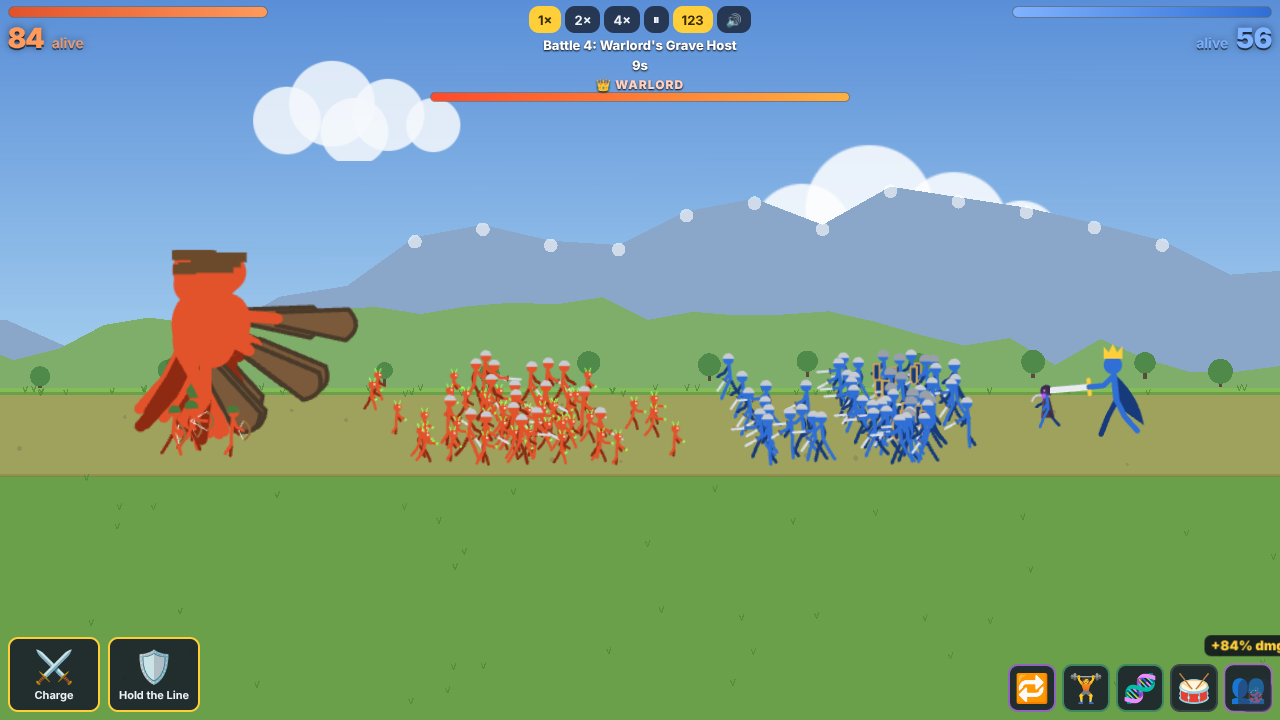
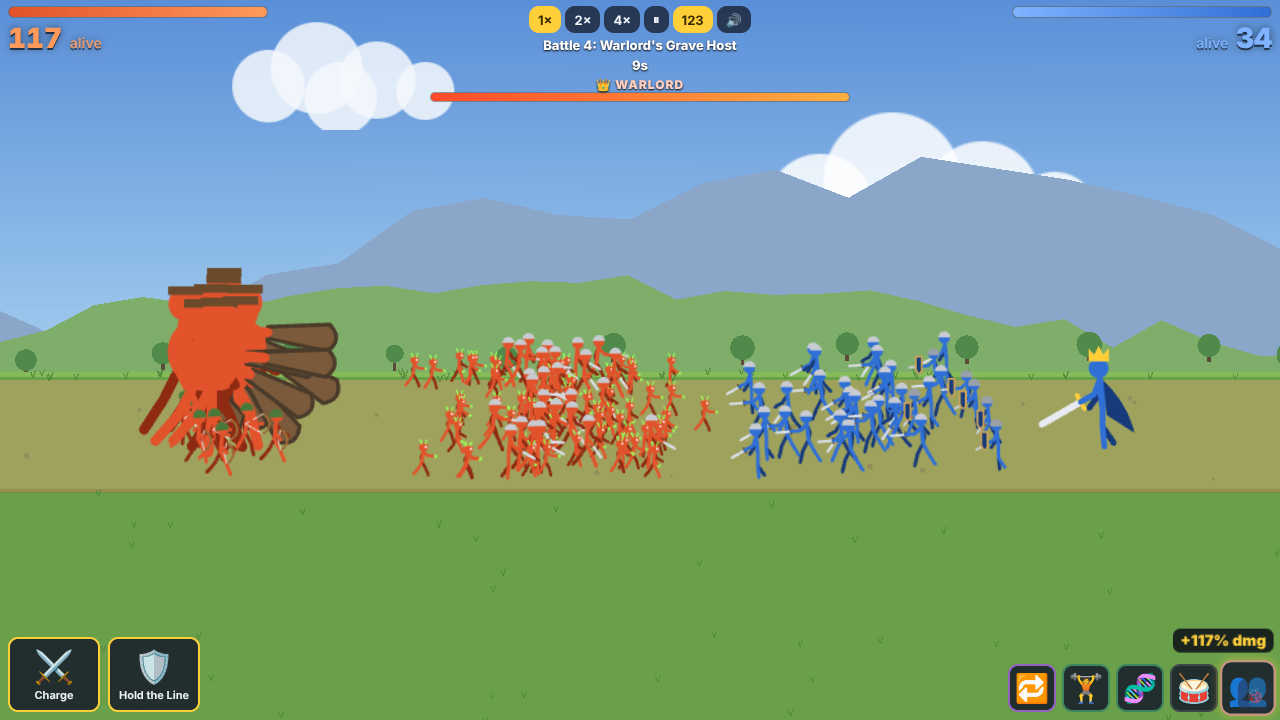
Perf benchmarks, docs (README, DEMO_GUIDE, DECISIONS), Pages workflow, boss hit-stop, camera/label/spawn polish
Claude-Session: https://claude.ai/code/session_01Gsp3VsnHyGdLX5UKaVADmR

diff --git a/src/main.ts b/src/main.ts
@@ -6,7 +6,8 @@ import { sfx } from './audio/sfx';
 import { setAtlas, h, hideTip } from './ui/dom';
 import { renderShop } from './ui/shop';
 import { Hud } from './ui/hud';
-import { renderDebug, renderReward, renderSummary, renderTitle, preset } from './ui/screens';
+import { renderDebug, renderReward, renderSummary, renderTitle } from './ui/screens';
+import { preset } from './game/presets';
 import { newRun, battleSetup, finishBattle, jumpToBattle, isBossBattle, addUnit, grantRelic, type RunState } from './game/run';
 import { UNITS } from './config/units';
 import type { BattleResult } from './sim/types';
@@ -21,7 +22,8 @@ async function boot() {
     resizeTo: window,
     antialias: false,
     backgroundColor: 0x161c2b,
-    resolution: Math.min(window.devicePixelRatio || 1, 2),
+    // phones: cap at 1.5x to save fill-rate (stickmen are drawn from a 2x atlas anyway)
+    resolution: Math.min(window.devicePixelRatio || 1, matchMedia('(pointer: coarse)').matches ? 1.5 : 2),
     autoDensity: true,
     powerPreference: 'high-performance',
     preference: 'webgl',
@@ -74,7 +76,21 @@ async function boot() {
     go('battle');
     ui.innerHTML = '';
     demo = null;
-    battle = new Battle(battleSetup(run));
+    const setup = battleSetup(run);
+    if (params.get('mirror')) {
+      // benchmark helper: the enemy gets a copy of your army (huge symmetric clash)
+      setup.enemy.slots = setup.player.slots.map((x) => ({ ...x }));
+      setup.enemy.mods = setup.player.mods;
+      setup.enemy.minion = setup.player.minion;
+      setup.enemy.statueHp = 5000;
+    }
+    battle = new Battle(setup);
+    if (params.get('prewarm')) {
+      // benchmark helper: fast-forward headlessly to the moment the armies clash
+      battle.emitEvents = false;
+      while (battle.tick < 1500 && (battle.deploying || battle.front[1] - battle.front[0] > 30)) battle.step();
+      battle.emitEvents = true;
+    }
     view.start(battle);
     view.paused = false;
     view.speed = speed;
@@ -205,6 +221,8 @@ async function boot() {
     if (params.get('preset')) preset(run, params.get('preset') as never);
     if (params.get('relics')) for (const r of params.get('relics')!.split(',')) grantRelic(run, r as never);
     if (params.get('battle')) jumpToBattle(run, Number(params.get('battle')));
+    // e.g. extra=swarmling:9,swordsman:9 (adds unit copies; used by the perf benchmark)
+    if (params.get('extra')) for (const kv of params.get('extra')!.split(',')) addUnit(run, kv.split(':')[0] as never, Number(kv.split(':')[1] ?? 1));
     if (params.get('gold')) run.gold = Number(params.get('gold'));
     if (params.get('speed')) speed = Number(params.get('speed'));
     if (params.get('numbers') === '0') view.showNumbers = false;

diff --git a/scripts/bench-sim.ts b/scripts/bench-sim.ts
@@ -1,0 +1,32 @@
+// CPU cost of the battle simulation at large scale (node, no rendering).
+// npx tsx scripts/bench-sim.ts
+import { newRun, battleSetup, addUnit, jumpToBattle } from '../src/game/run';
+import { preset } from '../src/game/presets';
+import { Battle } from '../src/sim/battle';
+
+const run = newRun(7);
+preset(run, 'swarm');
+addUnit(run, 'swarmling', 6);
+addUnit(run, 'swordsman', 6);
+jumpToBattle(run, 8);
+const setup = battleSetup(run);
+setup.enemy.slots = setup.player.slots.map((x) => ({ ...x }));
+setup.enemy.mods = setup.player.mods;
+setup.enemy.minion = setup.player.minion;
+setup.enemy.statueHp = 5000;
+const b = new Battle(setup);
+b.emitEvents = true; // include event generation cost, like the real game
+const samples: { alive: number; ms: number }[] = [];
+while (!b.finished && b.tick < 2700) {
+  const t = performance.now();
+  b.step();
+  const ms = performance.now() - t;
+  b.events.length = 0;
+  samples.push({ alive: b.aliveCount[0] + b.aliveCount[1], ms });
+}
+const big = samples.filter((s) => s.alive >= 1500);
+const avg = (xs: number[]) => xs.reduce((a, c) => a + c, 0) / Math.max(1, xs.length);
+const sorted = big.map((s) => s.ms).sort((a, c) => a - c);
+console.log(`ticks with >=1500 alive: ${big.length}, peak alive ${Math.max(...samples.map((s) => s.alive))}`);
+console.log(`sim step ms at >=1500 alive: avg ${avg(sorted).toFixed(3)}  p95 ${sorted[Math.floor(sorted.length * 0.95)]?.toFixed(3)}  max ${sorted[sorted.length - 1]?.toFixed(3)}`);
+console.log(`=> at 1x speed (30 ticks/s, ~0.5 tick per 60fps frame) the sim uses ~${(avg(sorted) * 0.5).toFixed(2)} ms per frame; at 4x ~${(avg(sorted) * 2).toFixed(2)} ms`);

diff --git a/src/ui/screens.ts b/src/ui/screens.ts
@@ -2,6 +2,7 @@ import { UNITS, BUYABLE_UNITS } from '../config/units';
 import { RELICS, RELIC_MAP } from '../config/relics';
 import type { RunState, RewardBreakdown } from '../game/run';
 import { TOTAL_BATTLES, addUnit, bestCombo, grantRelic, jumpToBattle, playerSide } from '../game/run';
+import { preset } from '../game/presets';
 import type { BattleResult } from '../sim/types';
 import { fmt, h, unitThumb } from './dom';
 
@@ -133,14 +134,3 @@ export function renderDebug(root: HTMLElement, run: RunState, hooks: DebugHooks)
   return box;
 }
 
-export function preset(run: RunState, kind: 'swarm' | 'necro' | 'archer' | 'giant') {
-  const P = {
-    swarm: { army: [['swarmling', 9], ['shieldbearer', 3], ['monk', 3], ['archer', 3]], relics: ['vanguard_banner', 'brood_mother', 'mitosis', 'strength_in_numbers', 'chain_reaction'] },
-    necro: { army: [['shieldbearer', 3], ['swordsman', 3], ['necromancer', 9], ['monk', 3]], relics: ['soul_harvest', 'gravedigger', 'grave_pact', 'war_drums', 'lich_crown'] },
-    archer: { army: [['shieldbearer', 9], ['spearman', 3], ['archer', 9], ['monk', 3]], relics: ['echo_stone', 'shield_quiver', 'eagle_eye', 'hail_of_arrows', 'thick_skin'] },
-    giant: { army: [['swordsman', 3], ['giant', 9], ['swarmling', 3], ['archer', 3]], relics: ['echo_stone', 'catapult_arms', 'titan_blood', 'war_drums', 'strength_in_numbers'] },
-  }[kind];
-  run.army = P.army.map(([t, c]) => ({ type: t as never, copies: c as number }));
-  run.relics = [];
-  for (const r of P.relics) grantRelic(run, r as never);
-}

diff --git a/src/sim/battle.ts b/src/sim/battle.ts
@@ -23,7 +23,7 @@ export const EV = {
   Land: 12, // x y dmg
   Command: 13, // cmdIndex
   StatueFall: 14, // side
-  Swing: 15, // x y size side (heavy swing)
+  Swing: 15, // x y size side boss (heavy swing)
 } as const;
 export const EV_STRIDE = 7;
 
@@ -277,8 +277,10 @@ export class Battle {
         const head = q[0];
         const st = side.slots[head.slot];
         const big = TYPE_BIG[UNIT_INDEX[st.type]];
-        const y = big ? WORLD.laneDepth * this.rng.range(0.4, 0.75) : this.rng.range(4, WORLD.laneDepth - 4);
-        this.spawn(s, st, head.slot, sx + this.rng.range(-8, 8), y);
+        const y = big ? WORLD.laneDepth * this.rng.range(0.2, 0.85) : this.rng.range(4, WORLD.laneDepth - 4);
+        // big units spawn staggered so a group of giants doesn't stack into one blob
+        const jx = big ? this.rng.range(-30, 10) * (s === 0 ? 1 : -1) : this.rng.range(-8, 8);
+        this.spawn(s, st, head.slot, sx + jx, y);
         if (--head.left <= 0) q.shift();
       }
     }
@@ -920,7 +922,7 @@ export class Battle {
             this.anim[i] = beh >= 5 ? 0.45 : 0.25;
             const amt = this.dmg[i] * this.unitMult(i, t);
             if (beh >= 5) {
-              this.ev(EV.Swing, x + dir * r * 0.6, this.y[i], this.size[i], s);
+              this.ev(EV.Swing, x + dir * r * 0.6, this.y[i], this.size[i], s, this.flags[i] & F_BOSS ? 1 : 0);
               this.bigSwing(i, s, amt);
             } else {
               this.damage(t, amt, i, dir * this.rng.range(20, 50), this.rng.range(40, 90));

diff --git a/src/game/presets.ts b/src/game/presets.ts
@@ -1,0 +1,16 @@
+// Ready-made builds used by the debug menu, the title-screen demo and benchmarks.
+import { grantRelic, type RunState } from './run';
+
+export type PresetName = 'swarm' | 'necro' | 'archer' | 'giant';
+
+export function preset(run: RunState, kind: PresetName) {
+  const P = {
+    swarm: { army: [['swarmling', 9], ['shieldbearer', 3], ['monk', 3], ['archer', 3]], relics: ['vanguard_banner', 'brood_mother', 'mitosis', 'strength_in_numbers', 'chain_reaction'] },
+    necro: { army: [['shieldbearer', 3], ['swordsman', 3], ['necromancer', 9], ['monk', 3]], relics: ['soul_harvest', 'gravedigger', 'grave_pact', 'war_drums', 'lich_crown'] },
+    archer: { army: [['shieldbearer', 9], ['spearman', 3], ['archer', 9], ['monk', 3]], relics: ['echo_stone', 'shield_quiver', 'eagle_eye', 'hail_of_arrows', 'thick_skin'] },
+    giant: { army: [['swordsman', 3], ['giant', 9], ['swarmling', 3], ['archer', 3]], relics: ['echo_stone', 'catapult_arms', 'titan_blood', 'war_drums', 'strength_in_numbers'] },
+  }[kind];
+  run.army = P.army.map(([t, c]) => ({ type: t as never, copies: c as number }));
+  run.relics = [];
+  for (const r of P.relics) grantRelic(run, r as never);
+}

diff --git a/src/render/battleView.ts b/src/render/battleView.ts
@@ -581,10 +581,11 @@ export class BattleView {
         }
         case EV.Swing: {
           const sz = e[k + 3];
-          if (sz > 2.6) {
+          if (e[k + 5] === 1) {
+            // boss hit: heavy shake + brief hit-stop
             this.shake = Math.max(this.shake, JUICE.shakeHeavy);
-            this.hitStop = Math.max(this.hitStop, JUICE.hitStopBoss * 0.6);
-          } else this.shake = Math.max(this.shake, JUICE.shakeHeavy * 0.4);
+            this.hitStop = Math.max(this.hitStop, JUICE.hitStopBoss * 0.7);
+          } else this.shake = Math.max(this.shake, JUICE.shakeHeavy * (sz > 2.6 ? 0.7 : 0.4));
           this.fxN.add(fx.dust, x, y, 0, -10, 0, 0.5, 0.6, 1.6 * sz * 0.5, 0xd8c8a0, 0.7);
           sfx.play('thud', 0.7);
           break;

diff --git a/src/config/units.ts b/src/config/units.ts
@@ -149,7 +149,7 @@ export const UNITS: Record<UnitId, UnitDef> = {
   golem: def({
     id: 'golem', name: 'Siege Golem', tags: ['Boss', 'Brute'], role: 'BOSS. Slams the front line every 6s, crushing and flinging everything nearby.',
     behavior: 'golem', weapon: 'golem', accent: '#9aa0a8', buyable: false,
-    cost: 0, count: 1, hp: 1800, dmg: 34, cooldown: 2.0, reach: 44, speed: 14, armor: 0.4, size: 3.3, aoe: 50, knock: 1.0, big: true,
+    cost: 0, count: 1, hp: 1500, dmg: 34, cooldown: 2.0, reach: 44, speed: 14, armor: 0.4, size: 3.3, aoe: 50, knock: 1.0, big: true,
   }),
 };
 

diff --git a/src/ui/style.css b/src/ui/style.css
@@ -682,6 +682,9 @@ button.gold {
 .relicic.uncommon {
   border-color: rgba(90, 208, 138, 0.55);
 }
+.relicic:nth-child(even) .rlabel {
+  bottom: 150%;
+}
 .relicic.pulse {
   animation: pulse 0.35s ease-out;
 }

diff --git a/src/config/tuning.ts b/src/config/tuning.ts
@@ -88,6 +88,6 @@ export const JUICE = {
   maxDamageNumbers: 50,
   damageNumberMinGap: 0.03,
   relicLabelWindow: 0.7,
-  cameraMinView: 640,
+  cameraMinView: 1000,
   cameraLerp: 2.2,
 };

diff --git a/DECISIONS.md b/DECISIONS.md
@@ -22,3 +22,35 @@ tests/       vitest suites
 ## Design decisions
 
 (The list grows as I build. Each entry says what was ambiguous and what I picked.)
+
+### Game rules
+
+- **Losing any battle ends the run**, as the brief says. To keep that fair, each normal battle is tuned to about 90–97% for a sensible build. The two bosses are the real danger. Numbers are in BALANCE.md.
+- **Runs start with 10 gold and 1 Swordsman copy (9 stickmen)**, so battle 1 is never an empty field.
+- **Unit copies:** each purchase adds one *copy*. Count = base count × copies × relic multipliers. Level 2 comes at 3 copies and level 3 at 9 copies (×1.6 HP/damage per level, slightly bigger body). Cards show pips toward the next level. Buying a type you already own never needs a free slot.
+- **5 slots at start, up to 7.** Each extra slot costs 8, then 12 gold in the shop, or comes from the **Barracks** relic. Brief: "relics or the shop". I did both.
+- **Selling** gives back half of everything spent on that slot or relic, rounded down, minimum 1. You can't sell your last unit.
+- **Reward:** 7 + battle number, +2 for a win under 30s, +2 if your statue is untouched, Bounty Board gold, plus interest of +1 per 5 gold held (cap 5; Piggy Bank raises it). Reroll costs 1, +1 per reroll in the same shop.
+- **Commands:** pick 2 before each battle in the shop (3 with Commander's Horn) from those you've unlocked. Base pool: Charge, Hold the Line, Volley, Rally. Mitosis unlocks Swarm Burst, Sky Hammer unlocks Meteor, Lich Crown unlocks Raise Dead. A newly unlocked command is equipped automatically, so players notice it.
+- **Enemy armies** are bought from a gold budget (`ENEMY.budget` in tuning.ts) using a themed weight table (Blade Horde, Shield Wall, Swarm Nest, Arcane Circle, Grave Host, Giant Clan, War Band). They level up like yours and get a small stat multiplier per battle. Battles 1–2 only use simple themes, and enemy Giants are capped early.
+- **Bosses:** the *Warlord* (battle 4) stays in the back line. While he's alive all enemies deal +20% damage, and every 10s his War Cry gives ×1.5 for 3s (golden ring, horn, banner). The *Siege Golem* (battle 8) walks in front and slams every 6s: area damage and everyone nearby is flung (screen shake + hit-stop). Spearmen do ×2.5 damage to both.
+- **Fallback winner:** if a battle reaches 90 s, the side with more (statue HP fraction + half of remaining army HP fraction) wins. Stress tests hit this in about 4% of random-army battles and rarely in real runs.
+
+### Relic interpretations
+
+- **"Every 3rd battle, permanently copy your rightmost relic's effect onto a random unit slot"** was hard to read and invisible in play. I replaced it with **Echo Stone: the relic directly to its right triggers twice**. It keeps the brief's "order matters, left to right" idea, chains (two Echo Stones = ×3), and is easy to see. Every relic is written as `apply(mods, power)`, so "triggers twice" really means power 2 for any relic.
+- **Shield Quiver** counts Shield *stickmen*: +1 arrow per 4, capped at +10 per volley. Counting per stickman instead of per slot makes it scale with army size without spawning a million projectiles.
+- **Strength in Numbers** is capped at +500% so the late game stays readable. The cap is still huge.
+- **Mitosis children shrink** (×0.6 HP and ×0.75 damage per generation) so it's a snowball and not an instant win. Sim data drove that change.
+- **Minions leave corpses** that can be raised again. That's what makes the necromancer army grow over a battle, and it matches "raises fallen stickmen (either side)".
+
+### Tech
+
+- **The renderer** draws every stickman and ragdoll as a Pixi `Particle` in a `ParticleContainer`. Frames come from one runtime-generated atlas (13 unit types × 2 sides × 12 poses: 6 walk, 4 attack, hurt, fly), each drawn by a small procedural rig (`render/atlas.ts`). Back rows are drawn first using a counting sort by depth, which is O(n) per frame.
+- **The sim** stores units in typed arrays and uses 16-unit spatial bins along the lane. Targeting, area damage and healing only scan nearby bins. Units queue behind allies when a bin is crowded, which forms readable blobs and keeps "front units engage first" true.
+- **Juice lives in the view**, driven by a flat event buffer from the sim: sparks, ragdolls that tumble, bounce and fade, shake, hit-stop, slow-mo on statue fall, damage numbers (BitmapText, rate-limited), relic pulses.
+- **Audio** is all synthesized, with per-sound voice caps per 50 ms and random pitch, so big fights sound like a crowd.
+- **Phone:** the battle HUD scales and the camera follows the front line in portrait. Landscape is recommended (an on-screen hint says so). Render resolution is capped at 1.5× on touch devices.
+- **Saved data:** only settings (mute, speed, damage numbers) in localStorage.
+- **Deployment:** a GitHub Actions workflow builds, type-checks and tests, then deploys `dist/` to Pages on pushes to `main` and to the working branch. Vite uses `base: './'`, so the build works under `/army/`.
+- **Playwright** isn't a project dependency. The screenshot and perf scripts use a globally installed Playwright, which keeps `npm install` small for players.

diff --git a/DEMO_GUIDE.md b/DEMO_GUIDE.md
@@ -1,0 +1,59 @@
+# Stickstorm demo guide (for Yousuf)
+
+Play link (after the one-time Pages setup in the README): **https://yousufkamran222-code.github.io/army/**
+It works on a laptop and on a phone. On a phone, hold it **sideways** for battles. The shop works either way.
+
+## 1. How to play (under 10 lines)
+
+1. **Shop:** spend gold on **units** (more stickmen; 3 copies = Lv 2, 9 copies = Lv 3) and **relics** (passive combo effects). Tap or hover anything to see what it does.
+2. **Drag army cards to reorder them.** Slot #1 deploys first and fights at the front. Drag relics too: **Echo Stone** doubles the relic to its right.
+3. Check the **"You vs Them" bar** and the enemy preview, then press **Fight**.
+4. The battle plays itself. You get **2 commands** (buttons at the bottom, or keys 1–4). Timing them is your job: Charge as the lines meet, Rally after a bad trade.
+5. Watch the **relic icons pulse** with labels like "Split ×24" when your combo fires. 1×/2×/4× and ⏸ are at the top.
+6. Win gold (fast or flawless wins pay extra, and you get +1 interest per 5 gold you hold). Lose once and the run is over.
+7. Beat the **Warlord** (battle 4) and the **Siege Golem** (battle 8) to win the run.
+
+## 2. Three builds to try
+
+Look for these pieces in the shop. Reroll (🎲) if needed. If you just want to *see* a build, open the debug menu (🐞) → **Quick builds**.
+
+**A. Swarm flood (the biggest numbers)**
+- Units: lots of **Swarmlings**, put in **slot #1**. Add a couple of Shieldbearers and Archers.
+- Relics: **Mitosis** (dying Swarmlings split into 2), **Brood Mother** (×1.5 Swarmlings), **Vanguard Banner** (slot #1 doubled), then **Strength in Numbers** (+1% damage per living ally).
+- What it feels like: a green-and-orange tide. It can pass 1,500 stickmen by battle 8. Swarm Burst (unlocked by Mitosis) splits every Swarmling at once.
+
+**B. Necromancer army (grow by killing)**
+- Units: **Necromancers** behind Shieldbearers and Swordsmen.
+- Relics: **Soul Harvest** (2 minions per corpse), **Gravedigger** (raise twice as fast), **Grave Pact** (minions get Blade bonuses), **War Drums** (Blade ×1.3), **Lich Crown** (minions explode, and you get the Raise Dead command).
+- What it feels like: the fight gets *bigger* as it goes on, because both sides' dead stand back up on your side.
+
+**C. Arrow storm (volley scaling)**
+- Units: a wall of **Shieldbearers** (and Spearmen) in front, **Archers** behind.
+- Relics: **Shield Quiver** (+1 arrow per 4 Shield stickmen, up to +10 per volley), **Eagle Eye**, **Hail of Arrows** (arrows that kill split into more arrows), and **Echo Stone** placed *left* of Shield Quiver.
+- What it feels like: the sky goes dark. The Volley command fires double arrows from everyone at once.
+
+(Bonus: **Giants + Catapult Arms + Titan Blood** throw enemy stickmen into their own army.)
+
+## 3. Debug / cheat menu
+
+Click the **🐞 button** (top right in the shop, bottom right in battle) or press the **` (backtick) key**. It lets you:
+- jump to any battle (1–8, bosses marked 👑)
+- add gold (+10/+50/+200)
+- add 3 copies of any unit
+- grant any relic (it replaces the leftmost one if you already have 5)
+- load a quick build (Swarm / Necro / Volley / Giants)
+- win the current battle instantly
+
+Fast way to see late-game chaos: 🐞 → Quick builds → **Swarm** → jump to **8** → Fight → try **4×**.
+
+## 4. Questions to answer after playing
+
+1. Did I want **"one more run"** when it ended? Why, or why not?
+2. Did my build feel like **my** idea, or did the shop decide for me?
+3. Was watching the battle **exciting**, or just waiting? Did the commands keep me involved?
+4. Did the **snowball moment** (hundreds of stickmen, relic labels popping) feel amazing? When exactly did it happen?
+5. Could I tell **why** I won or lost from what I saw on screen?
+6. Was there one relic or unit I'd **always** pick? Any I'd **never** pick?
+7. What was **boring** or confusing? (Shop, waiting, reading text, a particular battle?)
+8. On my phone: was it readable and comfortable?
+9. If this were a full game, what's the one thing I'd most want added?

diff --git a/README.md b/README.md
@@ -1,0 +1,58 @@
+# Stickstorm
+
+> **One-time setup to get the play link:** in this repo on GitHub, go to **Settings → Pages → Build and deployment → Source** and choose **GitHub Actions**. Then open the **Actions** tab and re-run the latest "Build, test and deploy" run (or push any commit).
+> The game will then be at **https://yousufkamran222-code.github.io/army/**.
+> If the deploy step says the branch is not allowed, go to **Settings → Environments → github-pages** and add this branch (or `main`) to the allowed deployment branches.
+
+A Balatro-style roguelite prototype with huge stick-figure army battles. Build an army in the shop, stack relics that **multiply**, and watch a dozen stickmen snowball into thousands that flatten everything.
+
+- 8 battles per run, with bosses at 4 (Warlord) and 8 (Siege Golem). About 15–20 minutes.
+- 10 unit types, 25 relics, 7 commands (4 base, 3 unlocked by relics).
+- Battles run on a deterministic 30 Hz simulation. It's tested headlessly with 1,500–2,400 stickmen on the field.
+- Everything (stickmen, landscape, sounds) is generated in code. There are no asset files.
+
+**How to play, and three builds to try:** see [DEMO_GUIDE.md](DEMO_GUIDE.md).
+
+## Run locally
+
+```bash
+npm install
+npm run dev        # open the printed URL (works on your phone on the same Wi-Fi too)
+```
+
+## Scripts
+
+| Command | What it does |
+| --- | --- |
+| `npm run dev` | Local dev server with hot reload |
+| `npm run build` | Production build into `dist/` |
+| `npm test` | Vitest unit tests (shop, economy, relics, battle sim) |
+| `npm run typecheck` | TypeScript check |
+| `npm run sim` | Headless balance simulator: bot-played full runs, build tests, a random-army stress test. Options: `-- --runs 100 --stress 2000 --buildtest 30 --only greedy` |
+| `npx tsx scripts/bench-sim.ts` | CPU cost of the sim with 1,500–2,400 stickmen |
+| `npx tsx scripts/debug-battle.ts greedy 4` | Tick-by-tick log of one bot battle |
+| `npm run shots` | Playwright screenshots of every screen at phone and desktop sizes (needs Playwright and Chromium installed, then `npm run build` first) |
+| `npm run perf` | Playwright frame-time benchmark of a 2,000-stickman battle |
+
+## URL parameters (testing shortcuts)
+
+`?screen=shop|battle|summary&battle=6&preset=swarm|necro|archer|giant&relics=mitosis,echo_stone&gold=50&extra=swarmling:3&speed=2&seed=7`
+
+Benchmark helpers: `&mirror=1` gives the enemy a copy of your army, and `&prewarm=1` fast-forwards to the clash.
+
+## Code map
+
+```
+src/config/   all tuning numbers (tuning.ts) and data-driven units, relics, commands
+src/sim/      deterministic battle simulation (battle.ts), relic mods -> stats, seeded RNG
+src/game/     run state, shop and economy (run.ts), enemy generation, power estimate, bot player, presets
+src/render/   Pixi renderer: procedural stick-figure atlas, battle view (camera, juice, FX), parallax background
+src/ui/       DOM UI: shop (drag to reorder), battle HUD, reward/summary/debug screens, tooltips
+src/audio/    Web Audio synthesized sound effects
+scripts/      sim, benchmarks, screenshots
+tests/        Vitest
+```
+
+To add a unit or relic, add one entry to `src/config/units.ts` or `src/config/relics.ts`. A relic is a small `apply(mods, power, army)` function that writes into `Mods` (`src/sim/mods.ts`). New mechanics read a new `Mods` field in `battle.ts`.
+
+See also [DECISIONS.md](DECISIONS.md) (design and tech choices) and [BALANCE.md](BALANCE.md) (sim results, tuning, performance).
